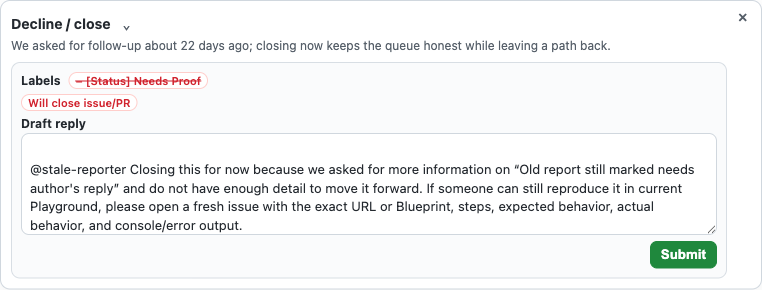
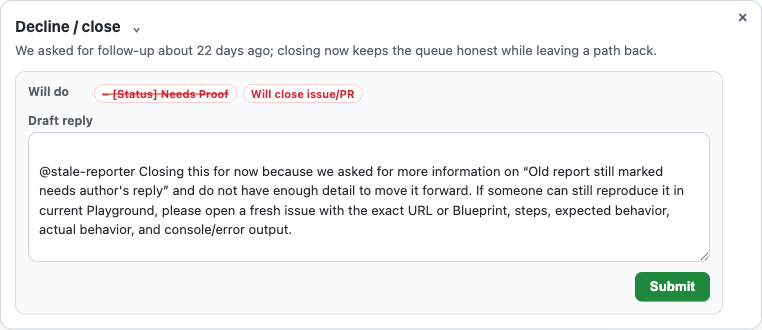
Polish triage assistant UI

diff --git a/extension/content.css b/extension/content.css
@@ -2,18 +2,18 @@
   display: inline-flex;
   align-items: center;
   justify-content: center;
-  gap: 5px;
+  gap: 6px;
   flex: 0 0 auto;
-  height: 28px;
+  height: 30px;
   margin-left: 8px;
-  padding: 3px 10px;
+  padding: 4px 11px;
   border: 1px solid var(--borderColor-default, #d0d7de);
-  border-radius: 6px;
+  border-radius: 8px;
   background: var(--bgColor-default, #fff);
   color: var(--fgColor-default, #24292f);
   box-shadow: 0 1px 0 rgba(27,31,36,.04);
   font-size: 12px;
-  font-weight: 600;
+  font-weight: 650;
   line-height: 18px;
   white-space: nowrap;
   cursor: pointer;
@@ -45,7 +45,7 @@
   margin-left: 1px;
 }
 .codex-triage-list-button:hover {
-  border-color: var(--borderColor-emphasis, #6e7781);
+  border-color: var(--borderColor-accent-emphasis, #0969da);
   background: var(--bgColor-muted, #f6f8fa);
 }
 .codex-triage-list-button[data-state="loading"] { color: var(--fgColor-muted, #57606a); }
@@ -68,9 +68,9 @@
   max-width: 760px;
   margin: 10px 0 14px;
   border: 1px solid var(--borderColor-default, #d0d7de);
-  border-radius: 10px;
+  border-radius: 12px;
   background: var(--bgColor-default, #fff);
-  box-shadow: 0 4px 18px rgba(27,31,36,.06);
+  box-shadow: 0 10px 30px rgba(27,31,36,.10);
   color: var(--fgColor-default, #24292f);
   overflow: visible;
 }
@@ -86,7 +86,7 @@
   line-height: 1;
   padding: 1px 5px;
 }
-.codex-triage-panel__body { padding: 12px 34px 10px 10px; display: grid; gap: 9px; }
+.codex-triage-panel__body { padding: 14px 38px 14px 14px; display: grid; gap: 12px; }
 .codex-triage-summary {
   display: block;
 }
@@ -103,14 +103,15 @@
   overflow: hidden;
   text-overflow: ellipsis;
   white-space: nowrap;
+  font-size: 15px;
   font-weight: 700;
-  line-height: 1.2;
+  line-height: 1.25;
 }
 .codex-triage-why {
-  margin-top: 2px;
+  margin-top: 4px;
   color: var(--fgColor-muted, #57606a);
-  font-size: 12px;
-  line-height: 1.35;
+  font-size: 13px;
+  line-height: 1.4;
 }
 .codex-triage-action-button {
   width: 22px;
@@ -161,26 +162,26 @@
 .codex-triage-action-menu__item small { color: var(--fgColor-muted, #57606a); font-size: 11px; }
 .codex-triage-field {
   display: grid;
-  gap: 5px;
-  padding: 9px;
+  gap: 10px;
+  padding: 12px;
   border: 1px solid var(--borderColor-muted, #d8dee4);
-  border-radius: 9px;
+  border-radius: 10px;
   background: color-mix(in srgb, var(--bgColor-muted, #f6f8fa) 55%, var(--bgColor-default, #fff));
 }
 .codex-triage-field-label {
-  color: var(--fgColor-default, #24292f);
+  color: var(--fgColor-muted, #57606a);
   font-size: 12px;
   font-weight: 700;
 }
 .codex-triage-label-row {
   display: grid;
-  grid-template-columns: auto minmax(0, 1fr);
-  align-items: center;
-  gap: 8px;
+  grid-template-columns: 56px minmax(0, 1fr);
+  align-items: start;
+  gap: 10px;
 }
 .codex-triage-label-chips {
   display: flex;
-  gap: 5px;
+  gap: 6px;
   flex-wrap: wrap;
   min-width: 0;
 }
@@ -188,13 +189,13 @@
   display: inline-flex;
   align-items: center;
   max-width: 100%;
-  padding: 1px 6px;
+  padding: 2px 7px;
   border: 1px solid var(--borderColor-muted, #d8dee4);
   border-radius: 999px;
   background: var(--bgColor-default, #fff);
   color: var(--fgColor-muted, #57606a);
   font-size: 11px;
-  font-weight: 600;
+  font-weight: 650;
   white-space: nowrap;
 }
 .codex-triage-label-chip[data-op="add"] {
@@ -206,11 +207,11 @@
   color: #d1242f;
   text-decoration: line-through;
 }
-.codex-triage-draft-section { display: grid; gap: 3px; }
+.codex-triage-draft-section { display: grid; gap: 5px; }
 .codex-triage-draft-label { margin-bottom: 0; }
 .codex-triage-draft-box {
   border: 1px solid var(--borderColor-default, #d0d7de);
-  border-radius: 8px;
+  border-radius: 9px;
   background: var(--bgColor-default, #fff);
   overflow: hidden;
 }
@@ -218,14 +219,14 @@
   box-sizing: border-box;
   display: block;
   width: 100%;
-  min-height: 82px;
-  padding: 8px;
+  min-height: 110px;
+  padding: 10px;
   border: 0;
   background: transparent;
   color: var(--fgColor-default, #24292f);
   font: inherit;
   font-size: 13px;
-  line-height: 1.42;
+  line-height: 1.5;
   resize: vertical;
 }
 .codex-triage-panel textarea[data-role="comment"]:focus {
@@ -235,21 +236,21 @@
 .codex-triage-draft-footer {
   display: flex;
   justify-content: flex-end;
-  padding-top: 1px;
+  padding-top: 0;
 }
 .codex-triage-draft-footer button {
   border: 1px solid var(--borderColor-default, #d0d7de);
   border-radius: 7px;
   background: var(--bgColor-default, #fff);
   color: var(--fgColor-default, #24292f);
-  padding: 5px 10px;
+  padding: 6px 14px;
   font-weight: 600;
   cursor: pointer;
   pointer-events: auto;
   position: relative;
   z-index: 2;
 }
-.codex-triage-draft-footer button.primary { background: #1f883d; color: white; border-color: #1f883d; }
+.codex-triage-draft-footer button.primary { background: #1f883d; color: white; border-color: #1f883d; box-shadow: 0 1px 0 rgba(27,31,36,.10); }
 .codex-triage-draft-footer button:disabled { opacity: .55; cursor: not-allowed; }
 .codex-triage-muted { color: var(--fgColor-muted, #57606a); font-size: 12px; }
 .codex-triage-ops {
@@ -261,13 +262,13 @@
   display: inline-flex;
   align-items: center;
   max-width: 100%;
-  padding: 1px 6px;
+  padding: 2px 7px;
   border: 1px solid #ffcecb;
   border-radius: 999px;
   background: var(--bgColor-default, #fff);
   color: #d1242f;
   font-size: 11px;
-  font-weight: 600;
+  font-weight: 650;
   white-space: nowrap;
 }
 .codex-triage-statusline { min-height: 0; color: var(--fgColor-muted, #57606a); font-size: 12px; }
@@ -278,11 +279,11 @@
   z-index: 1000;
   right: 18px;
   bottom: 18px;
-  width: min(430px, calc(100vw - 36px));
+  width: min(560px, calc(100vw - 36px));
   max-height: min(660px, calc(100vh - 36px));
   overflow: visible;
 }
-.codex-triage-panel[data-surface="popover"] textarea[data-role="comment"] { min-height: 96px; }
+.codex-triage-panel[data-surface="popover"] textarea[data-role="comment"] { min-height: 118px; }
 @media (max-width: 800px) {
   .codex-triage-panel { max-width: none; }
   .codex-triage-label-row { grid-template-columns: 1fr; }

diff --git a/extension/content.js b/extension/content.js
@@ -163,7 +163,7 @@ ${error.message}`;
   function positionFloatingPanel(panel, anchor) {
     if (!anchor) return;
     const rect = anchor.getBoundingClientRect();
-    const width = Math.min(430, window.innerWidth - 36);
+    const width = Math.min(560, window.innerWidth - 36);
     const measuredHeight = Math.min(panel.offsetHeight || 360, window.innerHeight - 36);
     const left = Math.max(18, Math.min(window.innerWidth - width - 18, rect.right - width));
     const top = Math.max(18, Math.min(window.innerHeight - measuredHeight - 18, rect.bottom + 8));
@@ -194,7 +194,7 @@ ${error.message}`;
 
         <div class="codex-triage-field" data-role="field">
           <div class="codex-triage-label-row" data-role="label-row" hidden>
-            <span class="codex-triage-field-label">Labels</span>
+            <span class="codex-triage-field-label">Will do</span>
             <span class="codex-triage-label-chips" data-role="label-chips"></span>
           </div>
           <div class="codex-triage-ops" data-role="operations" hidden></div>
@@ -344,34 +344,28 @@ ${error.message}`;
   function renderOperations(panel, operations) {
     const root = panel.querySelector('[data-role="operations"]');
     root.dataset.operations = JSON.stringify(operations || []);
-    renderLabelChips(panel, operations || []);
-    renderActionChips(root, operations || []);
+    renderWorkChips(panel, operations || []);
   }
 
-  function renderActionChips(root, operations) {
-    const visibleOps = operations.filter((op) => !['comment', 'addLabel', 'removeLabel'].includes(op.type));
-    root.hidden = !visibleOps.length;
-    root.innerHTML = '';
-    for (const op of visibleOps) {
-      const chip = document.createElement('span');
-      chip.className = 'codex-triage-operation-chip';
-      chip.dataset.op = op.type;
-      chip.textContent = operationText(op);
-      root.appendChild(chip);
-    }
-  }
-
-  function renderLabelChips(panel, operations) {
+  function renderWorkChips(panel, operations) {
     const row = panel.querySelector('[data-role="label-row"]');
     const chips = panel.querySelector('[data-role="label-chips"]');
-    const labelOps = operations.filter((op) => op.type === 'addLabel' || op.type === 'removeLabel');
-    row.hidden = !labelOps.length;
+    const visibleOps = operations
+      .filter((op) => op.type !== 'comment')
+      .sort((a, b) => operationSort(a) - operationSort(b));
+    row.hidden = !visibleOps.length;
     chips.innerHTML = '';
-    for (const op of labelOps) {
+    for (const op of visibleOps) {
       const chip = document.createElement('span');
-      chip.className = 'codex-triage-label-chip';
-      chip.dataset.op = op.type === 'addLabel' ? 'add' : 'remove';
-      chip.textContent = `${op.type === 'addLabel' ? '+' : '−'} ${op.label}`;
+      if (op.type === 'addLabel' || op.type === 'removeLabel') {
+        chip.className = 'codex-triage-label-chip';
+        chip.dataset.op = op.type === 'addLabel' ? 'add' : 'remove';
+        chip.textContent = `${op.type === 'addLabel' ? '+' : '−'} ${op.label}`;
+      } else {
+        chip.className = 'codex-triage-operation-chip';
+        chip.dataset.op = op.type;
+        chip.textContent = operationText(op);
+      }
       chips.appendChild(chip);
     }
   }
@@ -393,7 +387,7 @@ ${error.message}`;
 
   function actionMenuText(action) {
     const copy = {
-      'needs-proof': ['Ask for reproduction', 'Need steps, logs, benchmark, or proof'],
+      'needs-proof': ['Ask for reproduction', 'Need steps, logs, or benchmark'],
       'waiting-author': ['Waiting on contributor', 'Already asked; no public action yet'],
       'needs-design': ['Move to proposal/design', 'Agree on shape before code review'],
       'ready-review': ['Review normally', 'Small enough for the regular queue'],
@@ -407,6 +401,12 @@ ${error.message}`;
     return { title, description };
   }
 
+  function operationSort(op) {
+    if (op.type === 'removeLabel') return 0;
+    if (op.type === 'addLabel') return 1;
+    return 2;
+  }
+
   function operationText(op) {
     if (op.type === 'comment') return 'Post edited comment';
     if (op.type === 'addLabel') return `Add label: ${op.label}`;
@@ -417,9 +417,9 @@ ${error.message}`;
 
   function presentationFor(suggestion) {
     const map = {
-      'needs-proof': ['Proof', 'Ask proof', 'Needs proof'],
+      'needs-proof': ['Details', 'Ask details', 'Needs details'],
       'waiting-author': ['Waiting', 'Waiting', 'Waiting on contributor'],
-      'needs-design': ['Design', 'Discuss first', 'Needs design'],
+      'needs-design': ['Design', 'Proposal', 'Needs design'],
       'ready-review': ['Review', 'Review', 'Ready for review'],
       'needs-slicing': ['Split', 'Split first', 'Needs slicing'],
       'needs-owner': ['Owner', 'Find owner', 'Needs owner'],
